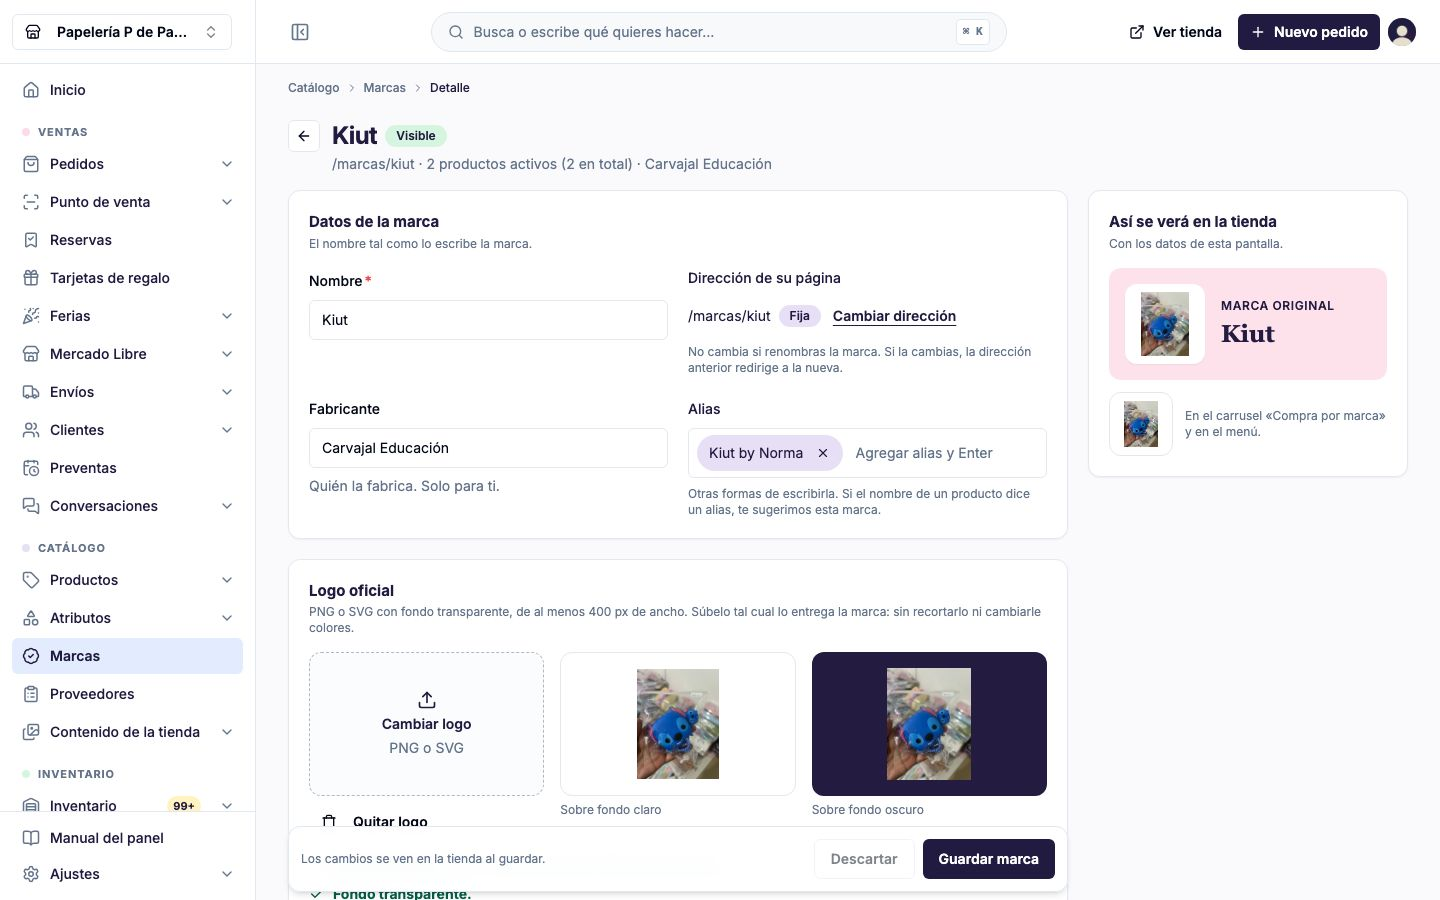
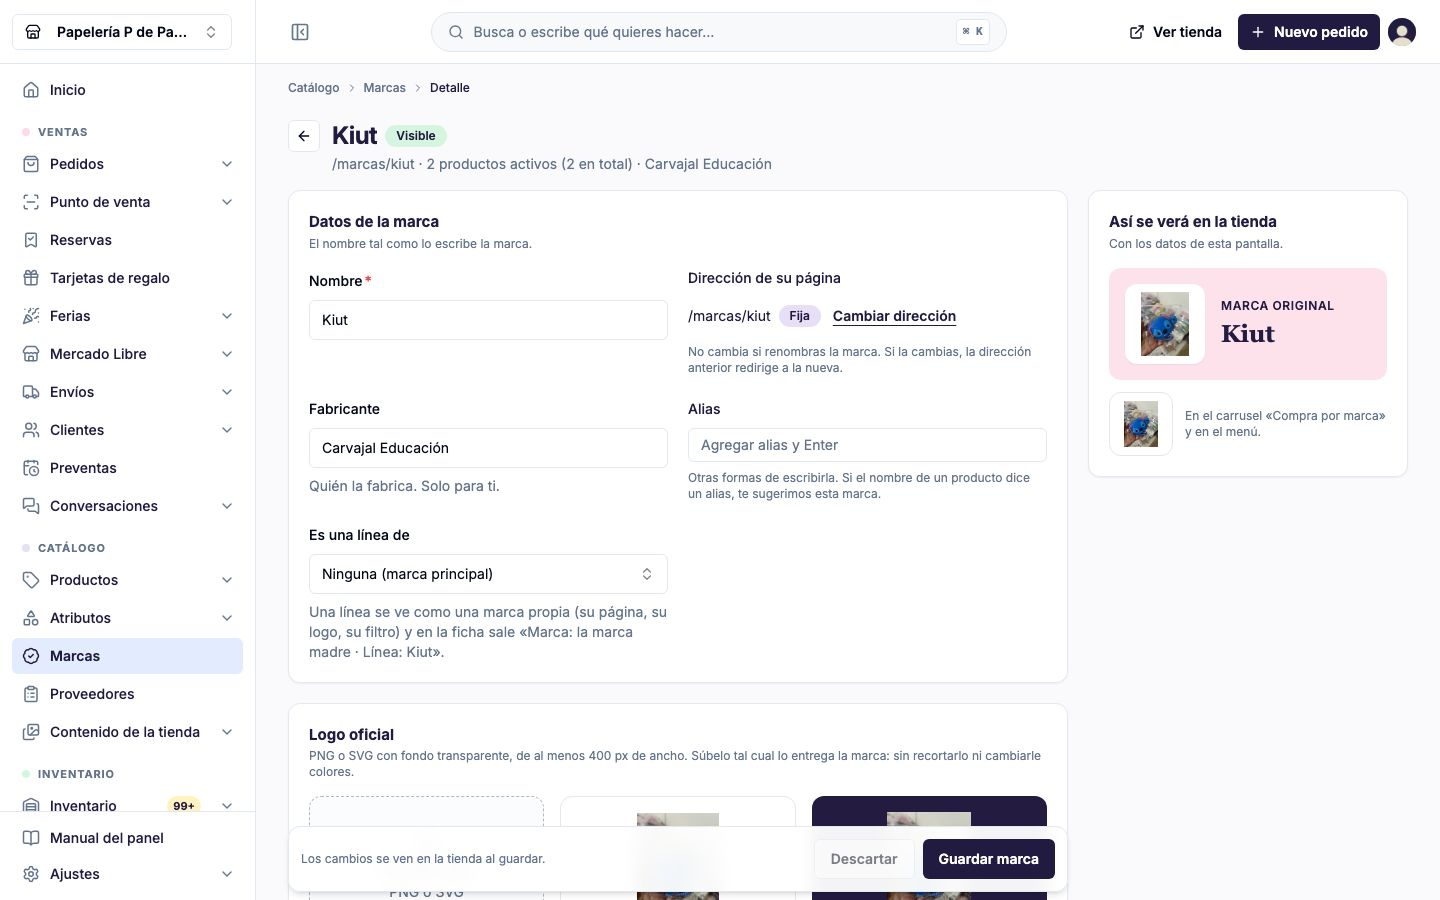
docs(marcas): líneas de marca en AGENTS.md, la guía y el manual del panel
- AGENTS.md (panel y tienda): modelo de líneas, la forma pública con parent, la
  purga por familia, el ejemplo de alias Fashion → Klipp y la guarda pdepapel_ro
  de los datos iniciales.
- Guía y manual (capítulo 15): «Es una línea de»; el ejemplo de alias pasa a
  Fashion para Klipp. Capturas tomadas de nuevo con los conteos tapados.

Claude-Session: https://claude.ai/code/session_016pCeSC3kjCFNFSLnxi8bS1

diff --git a/pdepapel-admin/content/manual/manual.html b/pdepapel-admin/content/manual/manual.html
@@ -923,7 +923,8 @@
       <h3>Crear o editar una marca</h3>
       <ol class="steps">
         <li><strong>Nueva marca</strong> (o el nombre en la lista). Escribe el <strong>Nombre</strong> tal como lo escribe la marca; la dirección de su página sale del nombre.</li>
-        <li><strong>Alias</strong>: otras formas en que aparece en los nombres de producto (KIUT, Kiut by Norma, o una línea de producto como Incolors para Scribe). Sirven para las sugerencias.</li>
+        <li><strong>Alias</strong>: otras formas en que aparece en los nombres de producto (KIUT, Kiut by Norma, o Fashion para Klipp). Sirven para las sugerencias.</li>
+        <li><strong>Es una línea de</strong>: si la marca es una línea de otra (Flower Power de Primavera, Incolors de Scribe), elige su marca madre. En la tienda la línea tiene su propia página, logo y filtro; su página dice «Una línea de Primavera», la ficha del producto dice «Marca: Primavera · Línea: Flower Power» y elegir Primavera en el filtro trae también sus líneas. Google, Meta y Mercado Libre reciben la marca madre. Un solo nivel: una línea no tiene líneas, y una marca con líneas no se archiva ni se fusiona en una de ellas.</li>
         <li><strong>Logo</strong>: PNG o SVG, de 400 px de ancho o más y con fondo transparente; la ficha avisa si el fondo no es transparente o la resolución es baja. Hay un espacio aparte para el logo en blanco (fondo oscuro).</li>
         <li><strong>Permiso de uso del logo</strong>: Sin revisar, Permitido, Pendiente o Negado. Con Pendiente o Negado la tienda muestra el <strong>nombre</strong> en una píldora en vez del logo.</li>
         <li><strong>Color</strong> (opcional): el fondo del encabezado de su página. Si el texto no se leería encima, sale «Muy oscuro» y no deja guardar.</li>

diff --git a/pdepapel-admin/AGENTS.md b/pdepapel-admin/AGENTS.md
@@ -351,6 +351,12 @@ The matching migration (`prisma/manual-migrations/20260918_add_variant_conversio
 Added 2026-10-17 (`feat/marcas`). Migration `prisma/manual-migrations/20261017_add_brands.sql`, then grants in `20261017_grant_copilot_ro_brands.sql`. Both must be applied before the code is deployed.
 
 - **Model:** `Brand` holds the logo, a permission for the logo, aliases, visibility and order. `BrandSlugRedirect` holds old addresses. `Product.brandId` and `ProductGroup.brandId` link the brand. `OrderItem.brandName` is a snapshot of the brand name taken when the line is created.
+- **Lines («línea de»):** `Brand.parentBrandId` makes a brand a line of another (Flower Power of Primavera, Incolors of Scribe). One level only, enforced in `brandParentError` (`lib/brand-rules.ts`) and the server guards in `lib/brands.ts`:
+  - the parent must exist in the same store, not be archived and not be a line itself; a brand cannot be its own parent (the migration also adds a `CHECK`);
+  - a brand with non-archived lines cannot become a line, cannot be archived and cannot be deleted;
+  - a parent cannot be merged into one of its lines; a brand with lines cannot be merged into a line; otherwise a merge moves the source's lines to the target.
+
+  In the store a line behaves like any brand (own chip, filter row, logo, page). Filtering by the parent includes its non-archived lines, even hidden ones (`resolvePublicBrandIds`), and the parent's facet count, product count and brand page include them. A line's page header says «Una línea de <Madre>» (only when the parent is public). Names: JSON-LD `Product.brand`, both feeds and Mercado Libre BRAND use the top-level brand (`topLevelBrandName`); GA4 `item_brand` and `OrderItem.brandName` use the displayed brand, the line (`brandDataName`). Mercado Libre LINE carries the line name, prefilled in the publish wizard only when the category has a LINE attribute. When a name matches both a line and its parent, the matcher keeps the line (`preferLines`).
 - **Groups:** a product in a group always carries its group's brand (`resolveProductBrandId`, `findGroupBrandMismatches` in `lib/brand-consistency.ts`). The group editor writes the group and every variant. Assigning one variant (in bulk or from suggestions) carries the whole group with it.
 - **Legacy text:** the free-text `Product.brand` / `ProductGroup.brand` columns are no longer written. Nothing customer-facing reads them. Mercado Libre falls back to them only while `MERCADOLIBRE_LEGACY_BRAND_FALLBACK` is `true` (`lib/mercadolibre/brand.ts`). Set it to `false`, and later drop the columns in their own migration, once `scripts/brands-initial-data.ts` finds nothing left to assign.
 - **Visibility rule** (`lib/brand-rules.ts`):
@@ -359,13 +365,14 @@ Added 2026-10-17 (`feat/marcas`). Migration `prisma/manual-migrations/20261017_a
   - An archived brand goes nowhere: `toPublicBrand` returns `null` and `brandDataName` returns `null`.
 - **Logo permission rule:** the store shows the logo only when `logoUrl` is set and `logoPermission` is not `PENDING`/`DENIED` (`canShowBrandLogo`); otherwise it shows the name in a text pill. Never upload a logo that wasn't taken unaltered from the brand's own site, and record the source in «Fuente del logo».
 - **Public shape:**
-  - Every public product and group carries `brand: { name, slug, logoUrl, logoHasBackground, logoPermission, color, isPublic } | null`, mapped from `brandRef` by `netPublicProduct`. `PUBLIC_PRODUCTS_CACHE_VERSION` is `v8`.
+  - Every public product and group carries `brand: { name, slug, logoUrl, logoHasBackground, logoPermission, color, isPublic, parent: { name, slug, isPublic } | null } | null`, mapped from `brandRef` by `netPublicProduct`. `PUBLIC_PRODUCTS_CACHE_VERSION` is `v8`.
   - `GET /products?marca=a,b` ORs brands and ANDs with the other filters. Old slugs resolve through redirects. `facets.brands` holds only public brands with a count above 0, and each count respects every other filter.
   - `GET /brands?conProductos=1` and `GET /brands/{slug}` are public. An old address answers `{ redirectTo }`; a hidden or archived brand answers 404.
 - **Purges:** brand changes purge only the brand's scope (`brandStorefrontTarget` in `lib/brand-cache.ts`):
   - the tags `brands`, `products:list` and `brand:<slug>` for every current and old slug;
   - the paths `/marcas` and `/marcas/<slug>`;
-  - the brand's products and groups.
+  - the brand's products and groups;
+  - the whole family: the parent of a line and the lines of a parent (the parent's page lists its lines' products; a line's product page names the parent). Editing a line's parent also purges the previous parent.
 
   A merge purges both brands. The store's revalidate allowlist accepts `brands` and `brand:<slug>`. Over the scope limits it falls back to a full purge, like any other scoped purge.
 - **Merge** (`mergeBrands`) runs as one transaction:
@@ -376,9 +383,9 @@ Added 2026-10-17 (`feat/marcas`). Migration `prisma/manual-migrations/20261017_a
   - A is archived, never deleted.
 
   A merged brand cannot be unarchived while its slug redirects elsewhere. Delete is only possible with 0 products and 0 groups.
-- **Suggestions:** `buildBrandMatcher` matches whole words, ignoring accents and case, on the brand name and its aliases. For example, the alias «Incolors» suggests Scribe. Products without a brand are pre-checked; products that already have another brand are listed apart, unchecked and outside the count. The AI assistant only proposes a brand through the same matcher and never creates one.
+- **Suggestions:** `buildBrandMatcher` matches whole words, ignoring accents and case, on the brand name and its aliases. For example, the alias «Fashion» suggests Klipp. Products without a brand are pre-checked; products that already have another brand are listed apart, unchecked and outside the count. The AI assistant only proposes a brand through the same matcher and never creates one.
 - **Mercado Libre:** BRAND goes only in the normal create and update payloads (`addProductIdentifiers`, the wizard, group publishing). There is never a bulk update of live listings. `scripts/mercadolibre-brand-audit.ts` is read-only: it lists active listings whose BRAND is missing or different (ids and counts only) and never refreshes the token.
-- **Initial data:** `scripts/brands-initial-data.ts` (rule in `lib/brand-initial-data.ts`) reads an untracked config. The dry run uses `pdepapel_ro` and saves the plan in `output/audits/`. `prod:write … --apply --plan <file> --expect-rows N` recomputes the plan inside the transaction and writes nothing unless the plan and N match. It is idempotent, so it is re-run after each push for products created in between.
+- **Initial data:** `scripts/brands-initial-data.ts` (rule in `lib/brand-initial-data.ts`) reads an untracked config. Brands in the config can declare `parent` and `isVisible`; parents are created before their lines. Name and alias matching only uses visible brands and lines; the old text can map to hidden brands. When the old text names a parent and the product name names one of its lines, the row goes to manual review with its own reason. The dry run refuses to run unless the connection is `pdepapel_ro` (`scripts/lib/read-only-user.ts`) and saves the plan in `output/audits/`. `prod:write … --apply --plan <file> --expect-rows N` recomputes the plan inside the transaction and writes nothing unless the plan and N match. It is idempotent, so it is re-run after each push for products created in between.
 
 ### Product AI assistant
 

diff --git a/pdepapel-store/AGENTS.md b/pdepapel-store/AGENTS.md
@@ -124,7 +124,7 @@ Spanish route segments are **canonical**. English folders exist **only** as perm
 | `/politicas/*` | `/policies/*` |
 | `/marcas`, `/marcas/[slug]` | — (new in 2026-10; no English predecessor) |
 
-**Brands (`/marcas`, 2026-10).** A product's `brand` is a `PublicBrand | null` object from the admin; the legacy brand text is never read. Two display rules live in `lib/brand-display.ts` (a copy of the admin's `lib/brand-rules.ts`): the store UI shows a brand only when `brand.isPublic` (card line, PDP «Original <Marca> ›», Detalles row, «Más de <Marca>» rail, filters, menu), and a logo only when `logoUrl` is set and `logoPermission` is not `PENDING`/`DENIED` (otherwise the name as text). JSON-LD `brand` and GA4 `item_brand` use `brand.name` even for a hidden brand. `/tienda?marca=<one slug>` with no other parameter has canonical `/marcas/<slug>`; brand pages with fewer than `BRAND_PAGE_INDEX_MIN_PRODUCTS` (3) products are `noindex, follow`, and with none they show the empty state. An old slug answers `permanentRedirect` to the current one; a hidden or archived brand is a `404`. Brand UI is server-rendered (`components/brands/*`, `prefetch={false}`, lazy logos with a fixed box); the `/tienda` chip row is kept in sync with the sidebar by `ShopContent` through `data-brand-chip` attributes, not by new client components. Brand logos are the one exception to «photos only through `CloudinaryImage`»: `BrandLogo` (and the filter row) is a plain server `<img>` with a single URL from `getCloudinaryImageUrl` at the allowed width that covers 2× the box (always `w_128` for boxes ≤ 64 px, so no new derived copies) and a fixed size class (preflight's `height: auto` would otherwise cause CLS). `next/image` there added a client reference plus a `srcset` per logo to every page's HTML, and the menu payload is serialized twice per page (pre-existing). Measured budget: HTML of `/`, `/tienda` and the PDP within +5 % of `main` (`output/audits/marcas-perf/`). Tailwind is 3.3.5: opacity steps like `/15` and `min-h-<spacing>` (`min-h-11`…) don't exist and silently produce no CSS — use `/[0.15]` and `min-h-[2.75rem]` (pre-existing no-op uses are listed in `output/audits/2026-10-17-store-tailwind-noop-classes.md`, local). The menu (drawer and mega menu) lists brands as text links only; logos appear in the chips, the filter, the PDP pill and the brand page.
+**Brands (`/marcas`, 2026-10).** A product's `brand` is a `PublicBrand | null` object from the admin; the legacy brand text is never read. Two display rules live in `lib/brand-display.ts` (a copy of the admin's `lib/brand-rules.ts`): the store UI shows a brand only when `brand.isPublic` (card line, PDP «Original <Marca> ›», Detalles row, «Más de <Marca>» rail, filters, menu), and a logo only when `logoUrl` is set and `logoPermission` is not `PENDING`/`DENIED` (otherwise the name as text). JSON-LD `brand` and GA4 `item_brand` use the brand even when it is hidden. **Lines** (`brand.parent`, e.g. Flower Power → Primavera, one level): the UI shows the line (card line, PDP pill); JSON-LD `brand` is the top-level brand (`topLevelBrandName` in `lib/brand-display.ts`: `parent.name ?? name`, also for a hidden parent) while GA4 keeps the line; the Detalles row shows «Marca» (parent) + «Línea» only when the parent `isPublic`; a line's page header says «Una línea de <Madre>» and a parent's page lists its lines as chips (`components/brands/brand-lines.tsx`, from `BrandPageData.lines`). `?marca=<parent>` includes the lines' products server-side. `/tienda?marca=<one slug>` with no other parameter has canonical `/marcas/<slug>`; brand pages with fewer than `BRAND_PAGE_INDEX_MIN_PRODUCTS` (3) products are `noindex, follow`, and with none they show the empty state. An old slug answers `permanentRedirect` to the current one; a hidden or archived brand is a `404`. Brand UI is server-rendered (`components/brands/*`, `prefetch={false}`, lazy logos with a fixed box); the `/tienda` chip row is kept in sync with the sidebar by `ShopContent` through `data-brand-chip` attributes, not by new client components. Brand logos are the one exception to «photos only through `CloudinaryImage`»: `BrandLogo` (and the filter row) is a plain server `<img>` with a single URL from `getCloudinaryImageUrl` at the allowed width that covers 2× the box (always `w_128` for boxes ≤ 64 px, so no new derived copies) and a fixed size class (preflight's `height: auto` would otherwise cause CLS). `next/image` there added a client reference plus a `srcset` per logo to every page's HTML, and the menu payload is serialized twice per page (pre-existing). Measured budget: HTML of `/`, `/tienda` and the PDP within +5 % of `main` (`output/audits/marcas-perf/`). Tailwind is 3.3.5: opacity steps like `/15` and `min-h-<spacing>` (`min-h-11`…) don't exist and silently produce no CSS — use `/[0.15]` and `min-h-[2.75rem]` (pre-existing no-op uses are listed in `output/audits/2026-10-17-store-tailwind-noop-classes.md`, local). The menu (drawer and mega menu) lists brands as text links only; logos appear in the chips, the filter, the PDP pill and the brand page.
 
 When adding a customer-navigable route:
 

diff --git a/pdepapel-admin/docs/guia-panel-administracion.md b/pdepapel-admin/docs/guia-panel-administracion.md
@@ -502,15 +502,24 @@ Analytics.
   logo». Con «Pendiente» o «Negado» la tienda muestra el nombre en vez del logo.
   El logo se sube tal cual lo entrega la marca: sin recortarlo ni cambiarle
   colores.
-- **Fusionar con otra marca…** Para una marca repetida o que en realidad es una
-  línea de otra (por ejemplo «Incolors» es una línea de Scribe). Todos los
+- **Es una línea de.** En la ficha de la marca, elige su marca madre: Flower
+  Power es una línea de Primavera; Incolors, de Scribe. Una línea se ve en la
+  tienda como una marca propia (su página, su logo, su filtro); su página dice
+  «Una línea de Primavera» y en la ficha del producto sale «Marca: Primavera ·
+  Línea: Flower Power». Elegir Primavera en el filtro trae también sus líneas.
+  Google, Meta y Mercado Libre reciben la marca madre (y Mercado Libre la línea
+  en «Línea» cuando la categoría lo pide). Un solo nivel: una línea no tiene
+  líneas, y una marca con líneas no se archiva ni se fusiona en una de ellas.
+- **Fusionar con otra marca…** Para una marca repetida o un nombre que es otra
+  forma de escribirla (por ejemplo «Fashion» de Klipp). Todos los
   productos pasan a la otra marca, la dirección anterior redirige, el nombre y
   los alias se suman como alias y la marca queda archivada. No se puede
   deshacer.
 - **Archivar / Eliminar.** Con productos solo se archiva o se fusiona; eliminar
   solo aparece cuando no tiene ninguno.
 - **Sugerencias automáticas.** Por cada marca, los productos activos cuyo
-  nombre dice la marca o uno de sus alias («coincide por el alias «Incolors»»).
+  nombre dice la marca o uno de sus alias («coincide por el alias «Fashion»»).
+  Si el nombre dice una línea y su marca madre, se sugiere la línea.
   Los que no tienen marca van marcados; los que ya tienen otra salen aparte, sin
   marcar. «Asignar X a N productos» asigna; en un grupo la marca es una sola y
   pasa a todas sus variantes.
